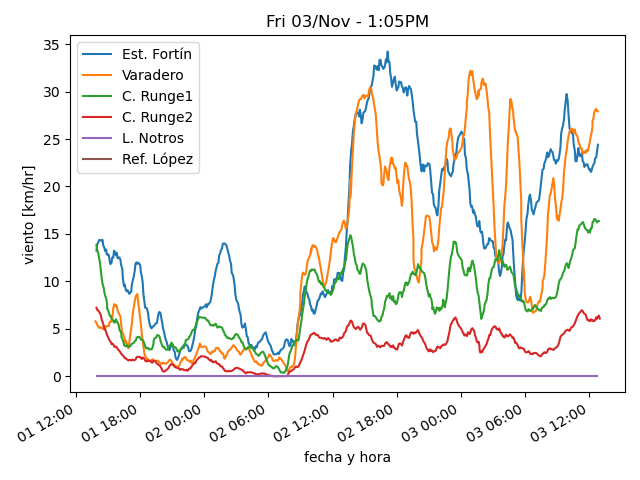
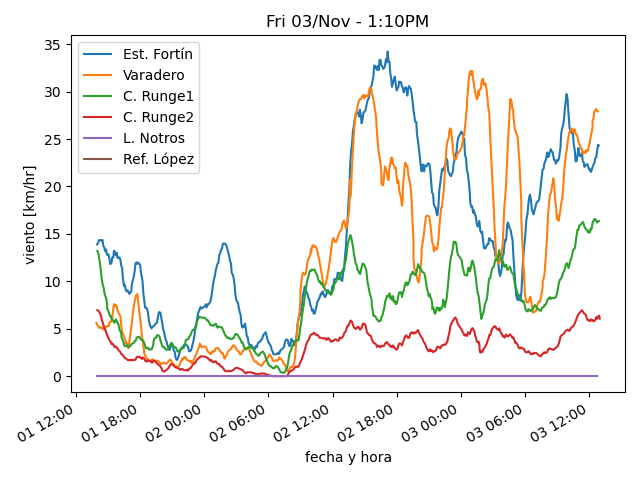
actualiza datos

diff --git a/estaciones/estacion1.html b/estaciones/estacion1.html
@@ -18,22 +18,22 @@
     </tr>
     <tr>
      <td class="stats_data">
-      12:49PM
+      12:53PM
      </td>
     </tr>
     <tr>
      <td class="stats_data">
-      13.4⁰C
+      13.3⁰C
      </td>
     </tr>
     <tr>
      <td class="stats_data">
-      1.3⁰C
+      2.1⁰C
      </td>
     </tr>
     <tr>
      <td class="stats_data">
-      43.7%
+      46.5%
      </td>
     </tr>
     <tr>
@@ -43,7 +43,7 @@
     </tr>
     <tr>
      <td class="stats_data">
-      19.3/28.4 km/hr WNW
+      14.6/21.7 km/hr WSW
      </td>
     </tr>
     <tr>
@@ -58,7 +58,7 @@
     </tr>
     <tr>
      <td class="stats_data">
-      935.0 W/m²
+      932.0 W/m²
      </td>
     </tr>
    </tbody>
